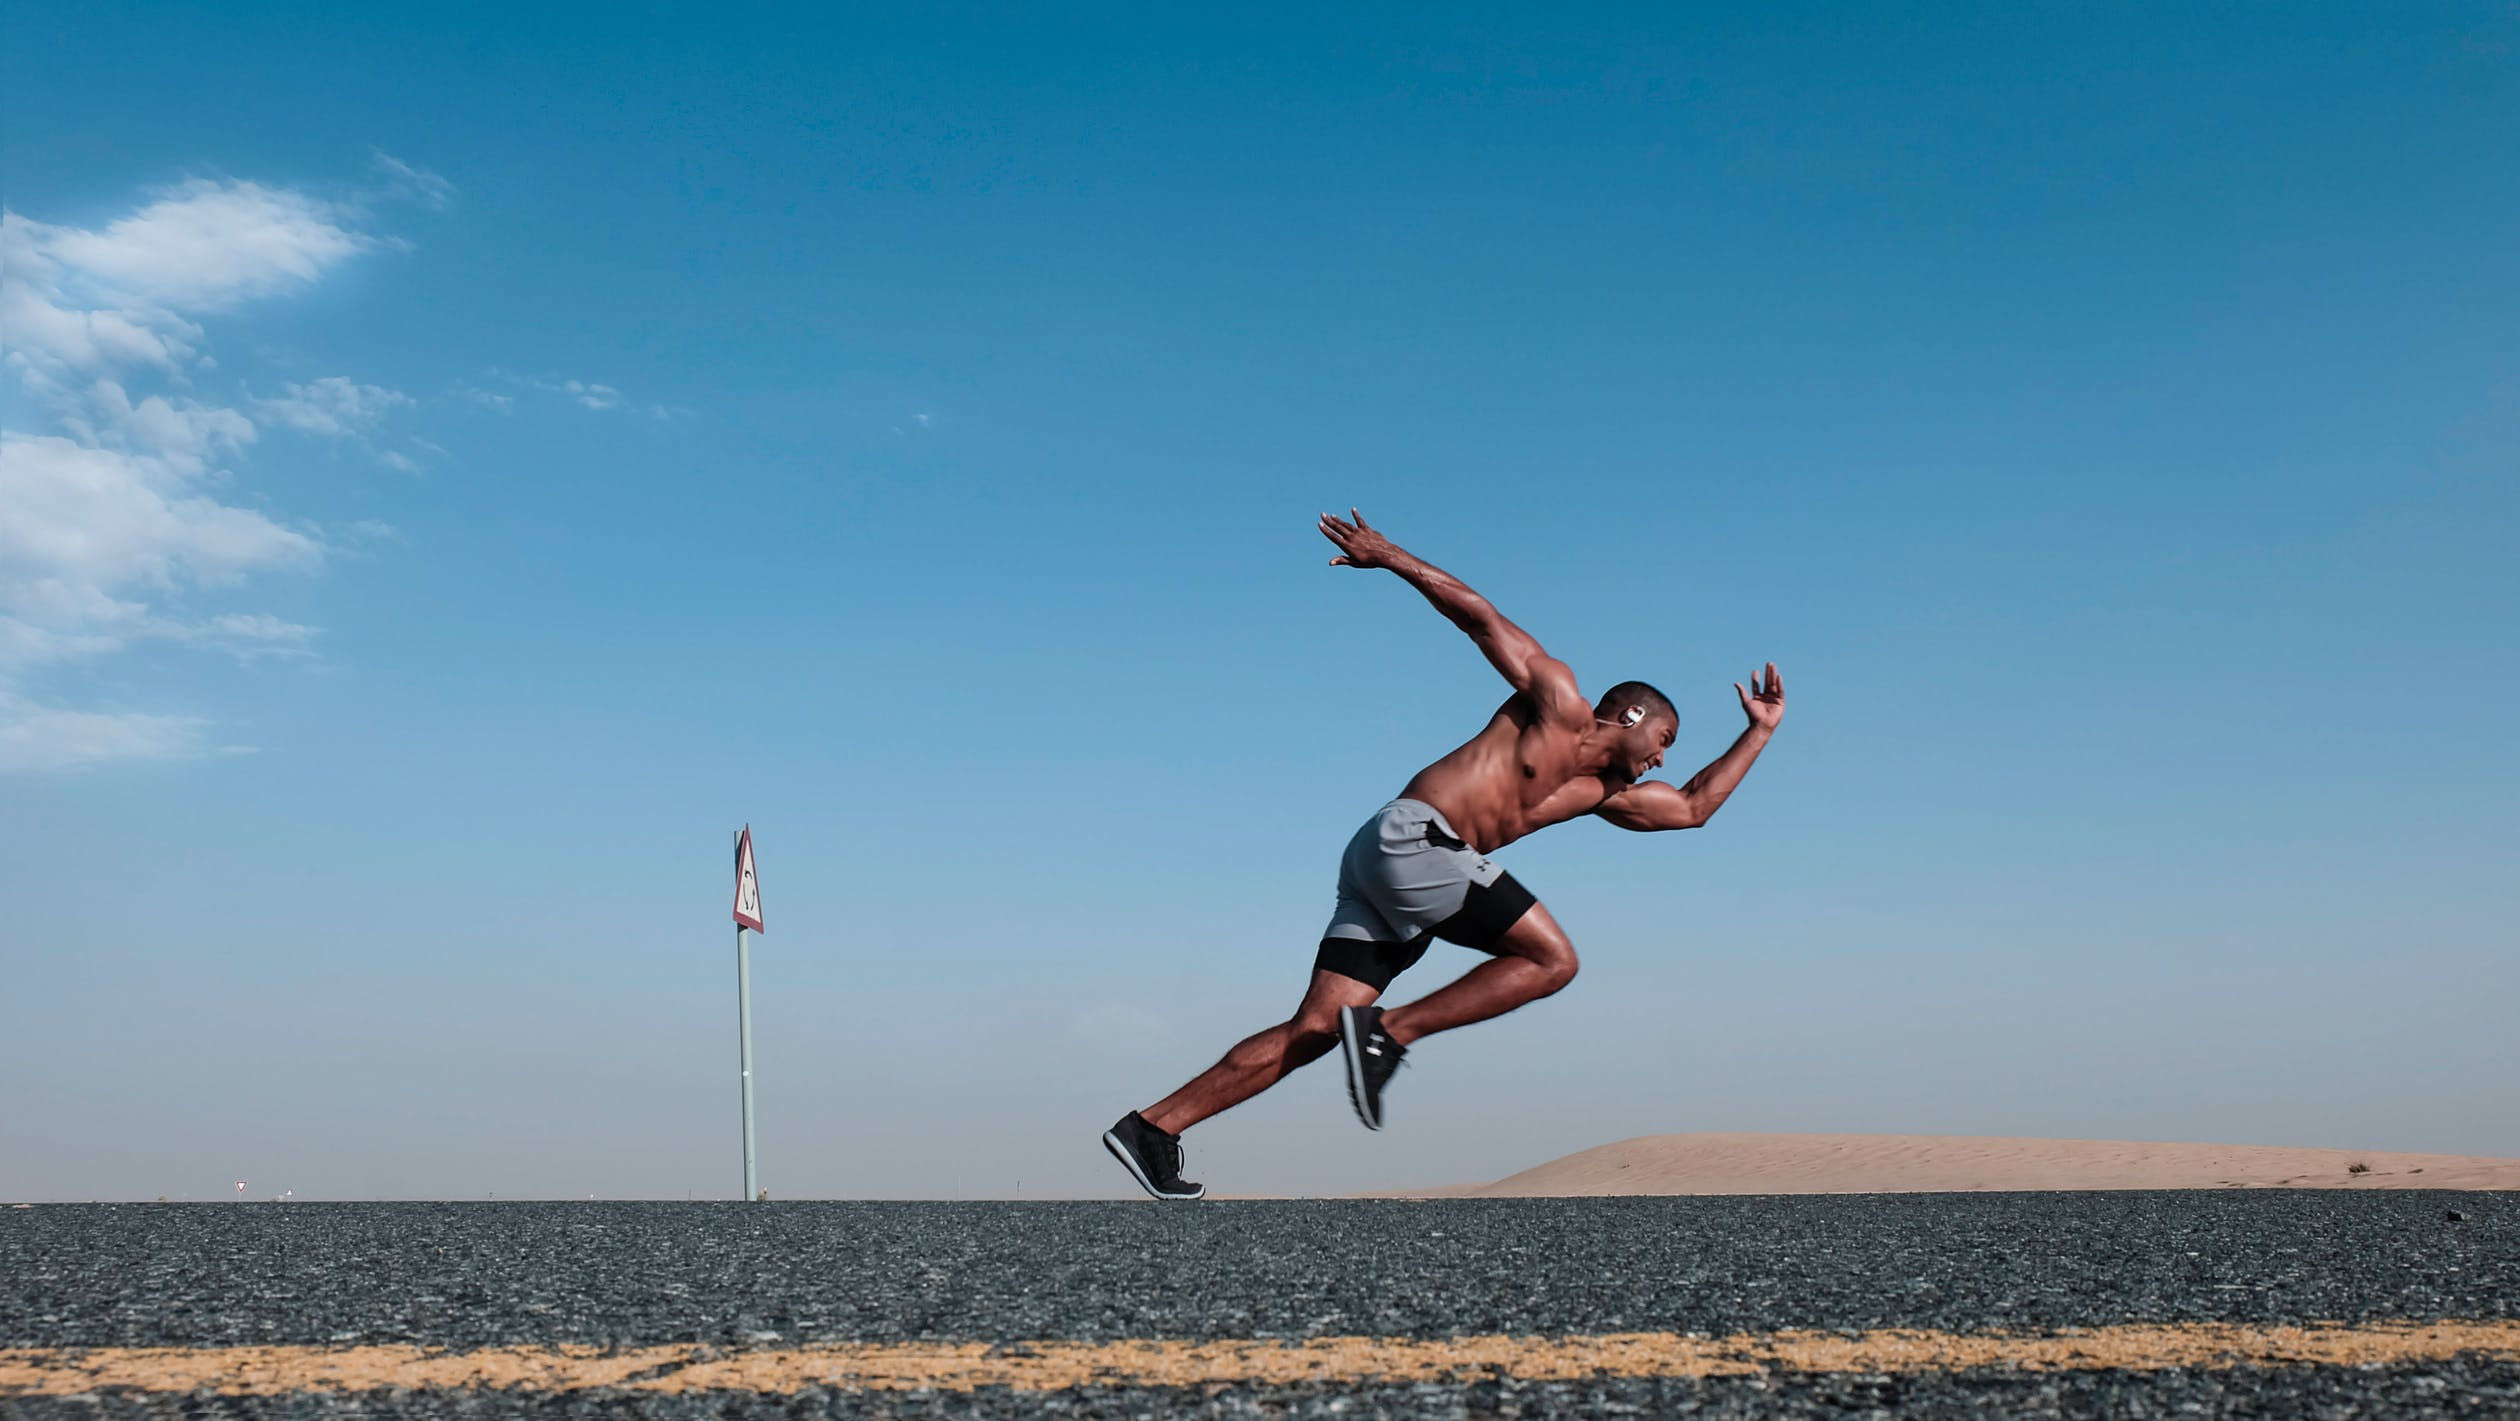
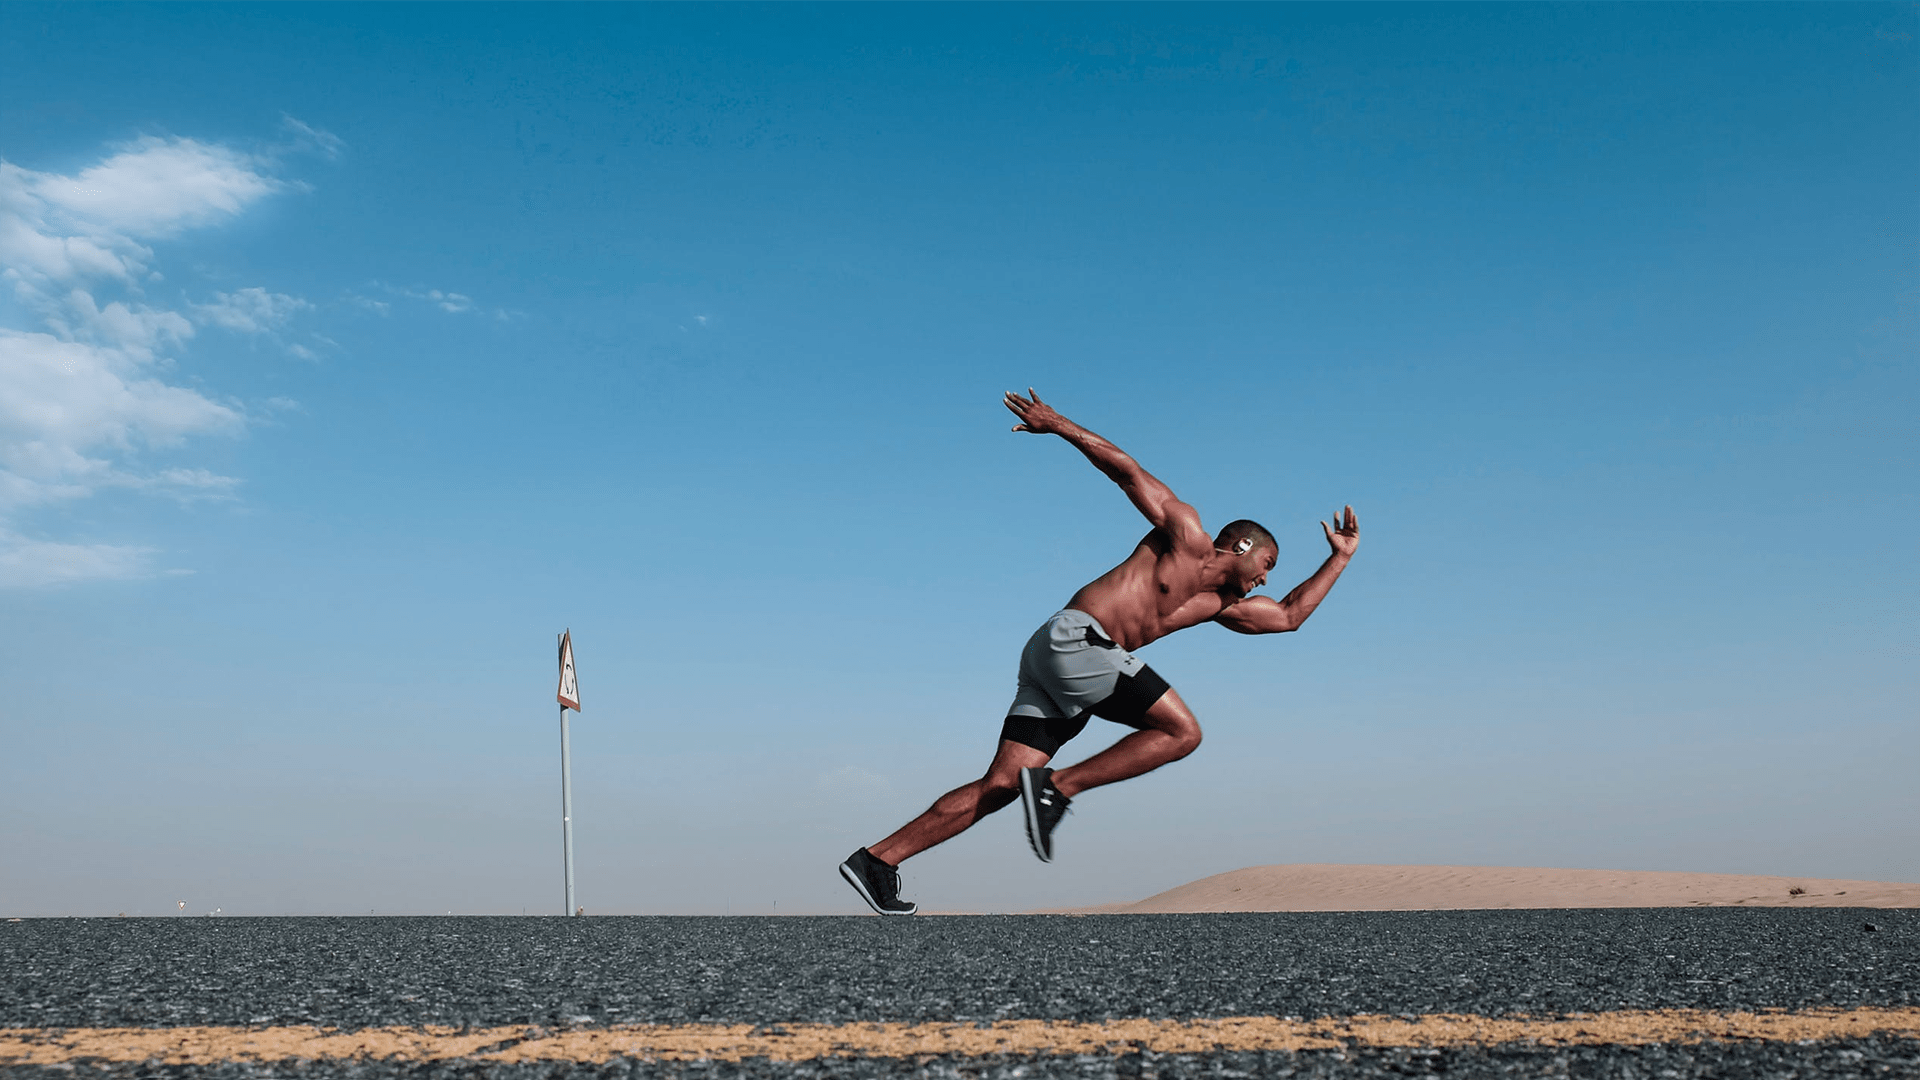
Seconde finalisation et compression des images

Changed region(s): [[0.0, 0.3667, 1.0, 1.0], [0.2812, 0.5806, 0.3125, 0.6722]]

diff --git a/resources/lang/en/website.php b/resources/lang/en/website.php
@@ -12,12 +12,12 @@ return [
     'menu.blog' => 'Blog',
     'menu.connect' => 'Log in',
     'menu.contact' => 'Contact us',
-    'home.subtitle' => 'The collection of applications which change the world of sport.',
+    'home.subtitle' => 'The collection of applications which changes the world of sport.',
     'home.discover' => 'Discover',
     'home.pricing' => 'Pricing',
     'home.tech' => 'Technology at the service of sport',
     'home.titleExosuite' => 'A collection of applications for smart glasses to do sport.',
-    'home.descriptionExosuite' => 'Exosuite use the power of AR technology for your daily sport. This technology is still young but promising. We believe in Augmented Reality and we will use it with smart glasses.',
+    'home.descriptionExosuite' => 'Exosuite uses the power of AR technology for your daily sport. This technology is still young but promising. We believe in Augmented Reality and we will use it with smart glasses.',
     'home.moreInfos' => 'More infos',
     'home.socialNetwork' => 'Social Network',
     'home.titleSocialNetwork' => 'ExoSuite is sharing !',
@@ -25,7 +25,7 @@ return [
     'home.ourSocialNetwork' => 'our social network',
     'home.epitech' => 'Who is creating Exosuite ?',
     'home.titleEpitech' => 'A group of friends, students at EPITECH',
-    'home.descriptionEpitech' => 'We are 7 students from EPITECH. We are technology enthusiasts and developers and this project exist to illustrate our will to innovate. This project is our end project for EPITECH, the EIP (EPITECH INNOVATIVE PROJECT)',
+    'home.descriptionEpitech' => 'We are 7 students from EPITECH. We are technology enthusiasts and developers and this project exists to illustrate our will to innovate. This project is our end project for EPITECH, the EIP (EPITECH INNOVATIVE PROJECT)',
     'home.quote' => 'Innovation is a situation we choose because we have a burning passion for something.',
     'exosuite.subtitle' => 'ExoSuite, the collection of application for smart glasses',
     'exosuite.features' => 'Features',
@@ -52,12 +52,12 @@ return [
     'exosuite.exosuiteTitle' => 'ExoSuite, the collection of application for smart glasses',
     'exosuite.exosuiteDescription' => 'ExoSuite is a collection of application which wraps ExoRun and ExoFun.',
     'exosuite.exosuiteDiscover' => 'Discover the collection of application ExoSuite',
-    'exorun.subtitle' => 'The application to go beyond your limites',
+    'exorun.subtitle' => 'The application to go beyond your limits',
     'exorun.features' => 'Features',
     'exorun.pricing' => 'Pricing',
     'exorun.features1' => 'What is ExoRun',
     'exorun.features1Title' => 'ExoRun, to find performance',
-    'exorun.features1Description1' => 'ExoRun allow regular athletes and professionnals to challenge a ghost, a representation of the desired run pace or emulating the pace of one of the community member. With Augmented Reality, the user will see this entity directly in his field of vision, to help him achieve his objective.',
+    'exorun.features1Description1' => 'ExoRun allows regular athletes and professionnals to challenge a ghost, a representation of the desired run pace or emulating the pace of one of the community member. With Augmented Reality, the user will see this entity directly in his field of vision, to help him achieve his objective.',
     'exorun.features1Description2' => 'Before a major sport event, how about training in the same track to gauge your level against people ?',
     'exorun.sport' => 'High-level sport',
     'exorun.tech' => 'High Tech',
@@ -68,35 +68,35 @@ return [
     'exofun.subtitle' => 'The application to keep sport fun.',
     'exofun.features' => 'What is ExoFun ?',
     'exofun.featuresTitle' => 'ExoFun, do sport while having fun',
-    'exofun.featuresDescription1' => 'ExoFun allows people to enjoy sport with mini-games. With Augmented reality, the user will be able to collect virtual items with his smart glasses.',
-    'exofun.featuresDescription2' => 'Rankings will be available for mini-games. Moreover, community events will be organized to help them to do sport in group.',
+    'exofun.featuresDescription1' => 'ExoFun allows people to enjoy sport with mini-games. With Augmented reality, the user will be able to see virtual items with his smart glasses and collect them',
+    'exofun.featuresDescription2' => 'Rankings will be available for mini-games. Moreover, community events will be organized to encourage people to do sport in group.',
     'exofun.sportDescription' => 'Sport with mini-games.',
     'exofun.techDescription' => 'Augmented Reality with glasses to stimulate you',
     'exofun.socialDescription' => 'Take part in social network events !',
     'social.subtitle' => 'Share your performances, challenge your friends',
     'social.shareTitle' => 'Share your performances',
-    'social.shareDescription1' => 'You like to show that you are the best ? Share you performace and show your friend who is the best of all !',
+    'social.shareDescription1' => 'You like to show that you are the best ? share your performances and show your friends who\'s the best !',
     'social.shareDescription2' => 'Share, like, comment your friends\' races',
     'social.defiTitle' => 'Challenge your friends',
-    'social.defiDescription' => 'Win prizes, accept challenges of your friends',
+    'social.defiDescription' => 'Win prizes by taking challenges of your friends',
     'team.title' => 'Find about us',
     'team.inno' => 'The innovators',
-    'team.teamTitle' => 'The team ExoSuite',
-    'team.teamDescription' => 'We are a group of students in year 4 at EPITECH, passionate about computer development. Exosuite is our thesis for EPITECH, and we will design an innovative sport coach using the latest technology.',
+    'team.teamTitle' => 'ExoSuite Team',
+    'team.teamDescription' => 'We are a group of fourth year students at EPITECH, passionate about computer development. Exosuite is our thesis for EPITECH, and we will design an innovative sport coach using the latest technologies.',
     'team.ericJob' => 'CEO',
-    'team.ericDescription' => 'Passionnate about devellopment and big dreamer.',
+    'team.ericDescription' => 'Dreamy and passionate about development',
     'team.dupilJob' => 'API Developer',
-    'team.dupilDescription' => 'Young student curious and motivated, I work on the Back-end development of our applications.',
+    'team.dupilDescription' => 'Young, curious and motivated student, I work on the Back-end development of our applications.',
     'team.lopezJob' => 'CTO',
-    'team.lopezDescription' => 'Passionate about computer science, all around and nerd of technologies.',
+    'team.lopezDescription' => 'Passionate about things related to computer sciences and nerd of technologies.',
     'team.renaudJob' => 'Application Developer',
-    'team.renaudDescription' => 'I am passionated by high-tech and travel.',
+    'team.renaudDescription' => 'I\'m curious , passionate and i love being challenged, ExoSuite will be my playgroud.',
     'team.pierreJob' => 'Web Developer',
     'team.pierreDescription' => 'Passionate about IT, video games and landscapes. I love travelling.',
     'team.stanJob' => 'Lead QA',
     'team.stanDescription' => 'In the past, I dreamed of being part of a major development project. Now, this wish is realized every day thanks to Exosuite.',
     'team.yassirJob' => 'Lead web developer',
-    'team.yassirDescription' => 'Un geek passionné par le web ! Mais aussi passionné par la culture nippone, la photo et le voyage !',
+    'team.yassirDescription' => 'A geek passionated by web ! But also heated by Japanese culture, photos and travel !',
     'pricing' => 'Interested ?',
     'pricing.title' => 'Our prices !',
     'pricing.mois' => '/ month',
@@ -111,7 +111,7 @@ return [
     'pricing.abo6' => 'Organize events',
     'pricing.exofun1' => 'No Daily rewards',
     'pricing.exofun2' => 'Limited community services',
-    'pricing.exofun3' => 'No access of datas of the champions',
+    'pricing.exofun3' => 'Champions\' data aren\'t accessible',
     'comingSoon' => 'Coming soon',
     'comingSoon.subTitle' => 'We are working for an optimal experience',
     'login.signin' => 'Log in !',

diff --git a/resources/lang/fr/website.php b/resources/lang/fr/website.php
@@ -90,7 +90,7 @@ return [
     'team.lopezJob' => 'Responsable développement',
     'team.lopezDescription' => 'Passionné d\'informatique, touche à tout et mordu de technologies.',
     'team.renaudJob' => 'Développeur application',
-    'team.renaudDescription' => 'Je suis passioné par la high-tech et par le voyage.',
+    'team.renaudDescription' => 'Je suis curieux, passionné et j\'aime les défis, ExoSuite sera mon terrain de jeu',
     'team.pierreJob' => 'Développeur Web',
     'team.pierreDescription' => 'Passionné d\'informatique, de jeux vidéo et de paysages. J\'aime voyager.',
     'team.stanJob' => 'Responsable assurance qualité',
